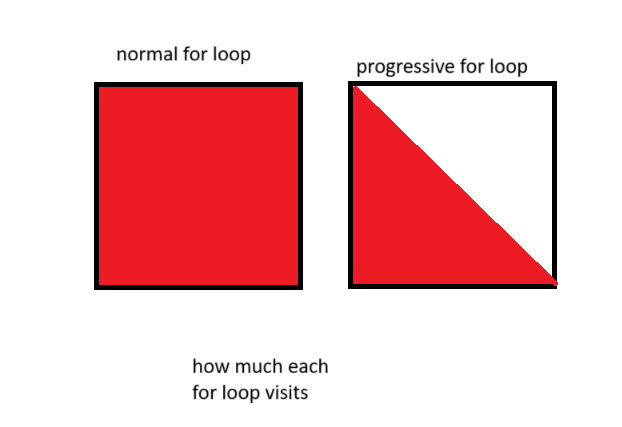
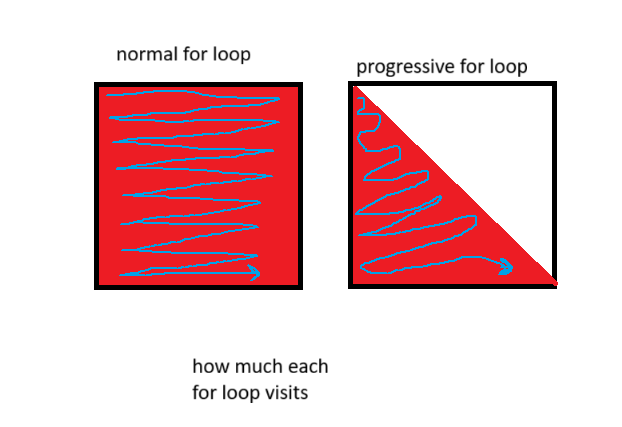
finished pe 78

diff --git a/projecteuler.html b/projecteuler.html
@@ -40,7 +40,7 @@
     this ensures that all solutions which reach the target are unique. and therefore a simple recursive solution is applicable. <br>
     since target and coin set were not very big i didnt bother trying to optimise anymore. i know this is a slow solution, lots of redundant calculations. <br>
     pe difficulty: 5/100<br>
-    my rating: 8/100 <br>
+    my rating: 10/100 <br>
     <a href="projecteuler/coinsums attempt 2.png" target="_blank"> show solution </a>
     <br><br><br>    
 
@@ -54,13 +54,14 @@
     my first step was to draw a few little hollow squares to look for patterns. <br>
     initially i was thinking that i would have to account for two cases, when the "centre" of the square was 1x1 (odd) vs 2x2 (even). <br>
     i then thought of the hollow squares as a binary sequence, eg. the left square above would be 011. and tried to figure out a formula to count the number of cells from the binary sequence. <br>
-    idk why this was my first approach as it would have been massively slower and overkill. luckily i noticed the number of cells in the hollow square was easily calculatable if you know the side length of the "inner" and "outer" square. <br>
+    idk why this was my first approach as it would have been massively slower, huge overkill and really complicated. <br>
+    luckily i noticed the number of cells in the hollow square was easily calculatable if you know the side length of the "inner" and "outer" square. <br>
     num_cells = outerN² - innerN² <br>
     now all i needed to do was define an iterative process which checks all outer and inner N's until num_cells exceeded 1 million. <br>
-    i settled on iterating through "edge thickness" and outerN in a nested while loop. this way innerN = outerN - edgeThickness at each step. <br> 
+    the first thing i thought of was iterating thru "edge thickness" and outerN in a nested while loop. this way innerN = outerN - edgeThickness at each step. <br> 
     i found this problem easier then expected and i think this is a pretty efficient method. <br>
     pe difficulty: 30/100<br>
-    my rating: 10/100 <br>
+    my rating: 12/100 <br>
     <a href="projecteuler/limanae squares finished attempt.png" target="_blank"> show solution </a>
     <br><br><br>
 </p>
@@ -78,7 +79,7 @@
     then sum that from 1 - 10. dont be like me i spent like 10 minutes getting it wrong because i was looping from 0 - 10 instead :( <br>
 
     pe difficulty: 40/100<br>
-    my rating: 10/100 <br>
+    my rating: 15/100 <br>
     <a href="projecteuler/limanae squares 2 finished attempt.png" target="_blank"> show solution </a>
     <br><br><br>
 </p>
@@ -98,11 +99,16 @@
     <img style="max-width: 400px; max-height: 300px" src="projecteuler/109 progressive for loop demo.png" title="comparison of the search space seen by each for loop">
     <img style="max-width: 400px; max-height: 300px" src="projecteuler/109 algo demo.png" title="example of algorithm for a 2 dart checkout"> <br>
 
-    then i counted how many unique double areas that checkout had, if it only had 1 unique double then i just continued. <br>
-     if there were 2 double present in the checkout then there was one other solution, as depicted in the image above, so i added 2. <br>
+    as the number of nested for loops increases it saves more time compared to the regular method. i think 2^(d-1) times better where d is the depth of nested for loops. <br> 
+    then i counted how many unique double areas that checkout had, this was the best way i could find to account for the strange uniqueness check. if it only had 1 unique double then i just continued. <br>
+    if there were 2 double present in the checkout then there was one other solution, as depicted in the image above, so i added 2. <br>
+    so in the right image above, the left yellow dot indicates a new found solution, say D2 D4. the other ? yellow dot represents the checkout D4 D2. <br>
+    checking the uniqueness criteria we see these 2 are different, so we add 2 to the tally. if the checkout was S8 D2, we would only add 1, D2 S8 does not count. <br>
     if there were 3 unique doubles, then there were 2 other solutions. you may, like me, initially think this is meant to be 6 (3!), but remember only the last dart matters so we only add 3. <br>
     because only the total number of combinations was needed not the combinations themselves i neglected to create some sort of list of checkouts and just kept a running tally. <br>
-    this was more difficult then it seemed on the tin. i think my solution is decent (less then a second on my old laptop :o). fortunately a dartboard only has 62 areas. <br>
+    this was more difficult then it seemed on the tin. the difficultly mainly comes from working around the rules for what is and is not a unique checkout. <br>
+    fortunately a dartboard only has 62 areas cos my algorithm is O(a³) where a is the number of areas on a dartboard. <br>
+    i think my solution is decent (less then a second on my laptop :o) but would be interesting to see what the best way to solve if problem was larger; more darts, more areas, etc.  <br>
     pe difficulty: 45/100 <br>
     my rating: 30/100 <br>
     <a href="projecteuler/109 dart solution.png" target="_blank"> show solution </a>
@@ -114,7 +120,8 @@
     <p style="font-size: 24px;"> #78 - Coin Partitions </p>
     the partition function p(n) describes how many unique ways you can separate a number n into different piles. p(5) = 7 you solve these pretty quickly with pen and paper. <br>
     <img style="max-width: 400px; max-height: 300px" src="projecteuler/78 partitions of 5.png" title="the 7 partitions of 5"> <br>
-     it becomes not so trivial quite fast, p(100) = 190,569,292. the goal find the smallest n such that p(n) mod 1e6 = 0. <br>
+    it becomes not so trivial quite fast, p(100) = 190,569,292. the goal find the smallest n such that p(n) mod 1e6 = 0. <br>
+    *turns out this is its own pe problem(#76 - Counting Summations), my dynamic sol gets this correct very quickly. <br>
     <br>
     this problem is similar to #31 - coins sums, except we we are not limited to only groups of 1, 2, 5, 10, etc. and we do not know what our final value of n will be. <br>
     so i started by adjusting the code from my solution of that problem to account for any pile size. this worked, however is very slow due to the recalculating the same thing many times. <br>
@@ -125,14 +132,17 @@
     ), always gives same answer as recursive (up to n=50). <br>
     so i modify it to run in a while loop like fashion, it gives an answer of 2301. pe says X wrong. wtf? recheck to bigger numbers with recursive, still looks good. <br>
     in my confusion i go to google, all answers i see are refering to euler's pentagonal numbers and recurrence relations, nothing like my dynamic programming solution. <br>
-    also i found what the real answer was. spoiler: not 2301, like 30x bigger. well i try my dp solution upto 60k, and its slow, too slow O(n²) is not enough need a linear solution. <br>
+    also i found what the real answer was. spoiler: not 2301, like 30x bigger. well i try my dp solution upto 60k, and its slow, too slow. O(n²) is not enough. <br>
     as for why i was getting 2301, im not sure. hopefully if i can solve with this other method, i can compare and see what went wrong. <br>
-    so i am now going to try the method i heard of online. i think a lot of the difficulty if this problem is researching. i figured i could use similar logic to # 31, which maybe you can, but just too slow even with dynamic sol :( <br>
+    i figured i could use similar logic to # 31, which maybe you can, but just too slow even with dynamic sol :(. so i am now going to try the method i read about online.  <br>
     <br>
-    ---
-    
-
-
+    i think a lot of the difficulty if this problem is researching, once you find <a href="https://en.wikipedia.org/wiki/Pentagonal_number_theorem">
+        Euler's pentagonal number thereom</a> it is not too hard to apply <br>
+    this was a bit :/ for me, cos i didnt realise there would be problems in this list that require niche mathematical theorems to solve. <br> 
+    so this is my implementation. i cant say i understand why this recurrence works or what pentagonal numbers have to do with it, but it works and takes like 10 seconds. <br>
+    <a href="projecteuler/78 solution.png" target="_blank"> show solution </a> <br>
+    pe difficulty: 30/100 <br>
+    my rating: 50/100*  <br>
     <br><br><br>    
 
 </p>
